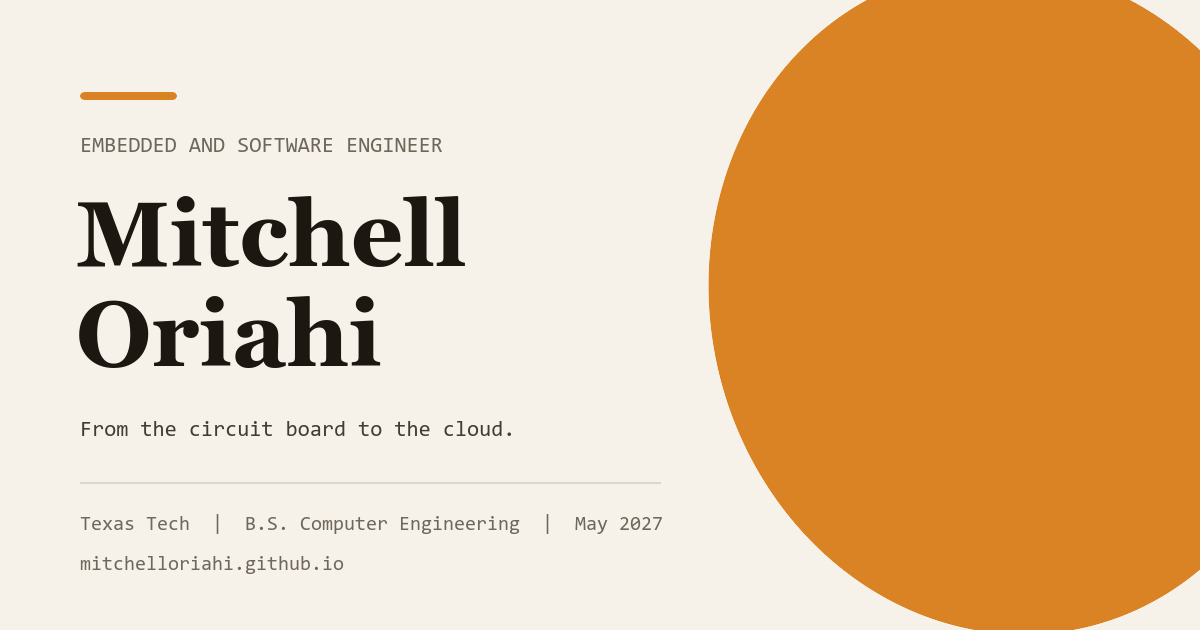
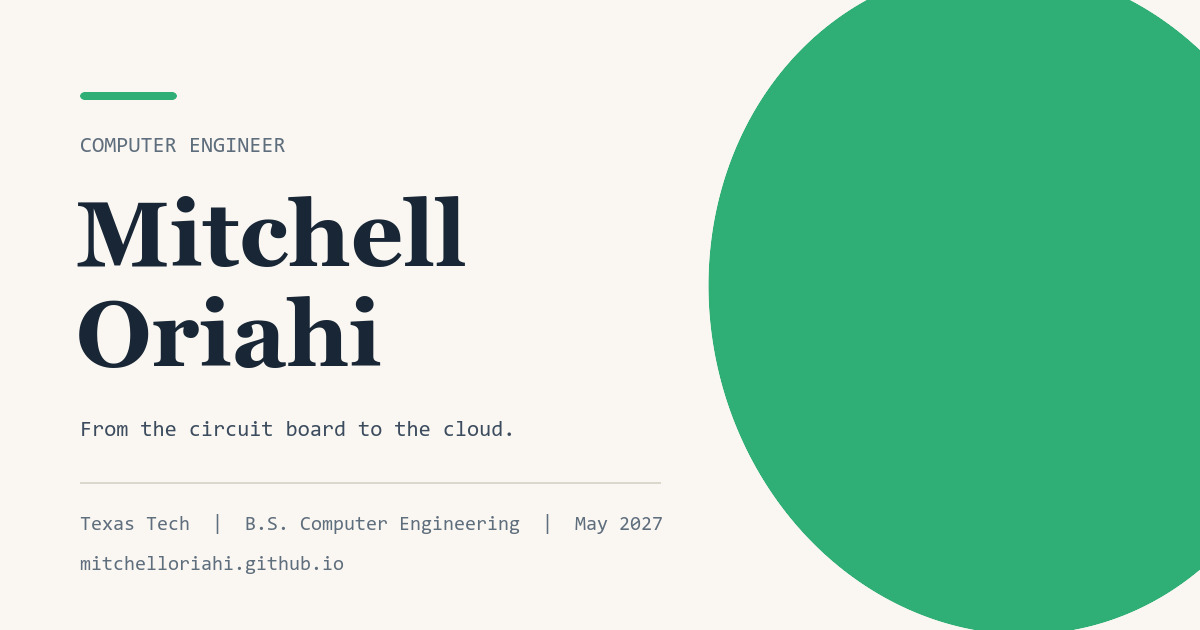
Repaint to navy and emerald, title to Computer Engineer, recruiter research pass
Palette: warm white paper, deep navy ink, emerald accent. Chosen after the
official frontend-design skill flagged cream plus serif plus terracotta as a
look AI-generated sites cluster around; Mitchell asked to move off marigold
without going Texas Tech red. Every color pair re-solved to WCAG AA. The
second featured card accent shifts from rust to steel blue; TTU scarlet
survives only on the education card. Favicon and social card regenerated.

Title: site-wide role label is now Computer Engineer per Mitchell's pick,
including the browser tab, OG card, and eyebrow.

Recruiter and ATS research applied:
- Tech ticker now shows real brand marks (devicon SVGs) beside C, Python,
  Azure DevOps, Git, Cosmos DB, MySQL, Linux, Java, MATLAB
- MATLAB restored to the toolkit and both MathWorks certifications restored
  to the education card: true keywords AI sourcing tools index
- JSON-LD enriched with hasCredential entries and a wider knowsAbout list

Beyond the bench copy rewritten as plain human sentences, no engineering
metaphors.

Also installs 20 design and workflow skills globally to ~/.claude/skills
(frontend-design, web-design-guidelines, ui-ux-pro-max, superpowers set, and
more), reviewed for safety before install; those live outside this repo.

diff --git a/src/styles/global.css b/src/styles/global.css
@@ -3,30 +3,31 @@
 /* ============================================================================
    DESIGN SYSTEM
    ----------------------------------------------------------------------------
-   Warm editorial. Bone paper, deep ink, one marigold accent.
+   Warm editorial, navy ink. Warm white paper, deep navy text, emerald accent.
    Tailwind v4 reads @theme and generates utilities from it, so these tokens are
    available both as CSS variables and as classes like text-ink or bg-bone.
    ========================================================================== */
 
 @theme {
     /* -- colour ----------------------------------------------------------- */
-    --color-bone: #f6f2ea;
-    --color-bone-deep: #ece5d8;
-    --color-paper: #fffdf9;
+    --color-bone: #faf7f2;
+    --color-bone-deep: #f0ebe2;
+    --color-paper: #ffffff;
 
-    --color-ink: #1d1712;
-    --color-ink-soft: #423c33;
-    --color-ink-mute: #6f675b;
-    --color-ink-faint: #726b62;
+    --color-ink: #182635;
+    --color-ink-soft: #3c4c5e;
+    --color-ink-mute: #5f6e7d;
+    --color-ink-faint: #61707f;
 
-    --color-rule: #ddd5c6;
-    --color-rule-soft: #e8e1d4;
+    --color-rule: #dcd7cd;
+    --color-rule-soft: #eae6dd;
 
-    --color-marigold: #d98324;
-    --color-marigold-deep: #965c12;
-    --color-marigold-wash: #f9ecd4;
+    --color-accent: #2fae76;
+    --color-accent-deep: #157a52;
+    --color-accent-wash: #e3f2ea;
 
-    --color-clay: #b4522f;
+    /* legacy name; now the steel blue used by the second featured card */
+    --color-clay: #41729f;
     --color-moss: #4f6b4a;
 
     /* Texas Tech scarlet, used as an accent only (borders, washes, marks),
@@ -102,7 +103,7 @@
     }
 
     ::selection {
-        background: var(--color-marigold);
+        background: var(--color-accent);
         color: var(--color-ink);
     }
 
@@ -155,7 +156,7 @@
         width: 0.42rem;
         height: 0.42rem;
         border-radius: 50%;
-        background: var(--color-marigold);
+        background: var(--color-accent);
         flex: none;
     }
 
@@ -208,7 +209,7 @@
     /* Italic serif for the accented words inside display headings. */
     .accent-word {
         font-style: italic;
-        color: var(--color-marigold-deep);
+        color: var(--color-accent-deep);
     }
 
     /* -- buttons ---------------------------------------------------------- */
@@ -236,14 +237,14 @@
         color: var(--color-bone);
         border: 1px solid var(--color-ink);
     }
-    .btn-solid:hover { background: var(--color-marigold-deep); border-color: var(--color-marigold-deep); }
+    .btn-solid:hover { background: var(--color-accent-deep); border-color: var(--color-accent-deep); }
 
-    .btn-amber {
-        background: var(--color-marigold);
+    .btn-accent {
+        background: var(--color-accent);
         color: var(--color-ink);
-        border: 1px solid var(--color-marigold);
+        border: 1px solid var(--color-accent);
     }
-    .btn-amber:hover { background: var(--color-ink); color: var(--color-bone); border-color: var(--color-ink); }
+    .btn-accent:hover { background: var(--color-ink); color: var(--color-bone); border-color: var(--color-ink); }
 
     .btn-ghost {
         background: transparent;
@@ -270,10 +271,10 @@
     .btn-solid .btn-badge { background: var(--color-bone); }
     .btn-solid .btn-badge svg { color: var(--color-ink); }
 
-    .btn-amber .btn-badge { background: var(--color-ink); }
-    .btn-amber .btn-badge svg { color: var(--color-bone); }
-    .btn-amber:hover .btn-badge { background: var(--color-marigold); }
-    .btn-amber:hover .btn-badge svg { color: var(--color-ink); }
+    .btn-accent .btn-badge { background: var(--color-ink); }
+    .btn-accent .btn-badge svg { color: var(--color-bone); }
+    .btn-accent:hover .btn-badge { background: var(--color-accent); }
+    .btn-accent:hover .btn-badge svg { color: var(--color-ink); }
 
     .btn-ghost .btn-badge { background: var(--color-ink); }
     .btn-ghost .btn-badge svg { color: var(--color-bone); }
@@ -329,7 +330,7 @@
 
     /* -- organic blob behind the portrait --------------------------------- */
     .blob {
-        background: var(--color-marigold);
+        background: var(--color-accent);
         border-radius: 48% 52% 42% 58% / 55% 45% 55% 45%;
     }
 
@@ -383,7 +384,7 @@
         bottom: 0.15rem;
         height: 1.5px;
         border-radius: 2px;
-        background: var(--color-marigold);
+        background: var(--color-accent);
         transform: scaleX(0);
         transform-origin: left center;
         transition: transform 0.5s var(--ease-out-expo);
@@ -424,11 +425,11 @@
     /* Produced by src/lib/highlight.ts from **marked** content strings. */
     .hl {
         font-weight: 650;
-        color: var(--color-marigold-deep);
+        color: var(--color-accent-deep);
     }
 
     .band-ink .hl {
-        color: var(--color-marigold);
+        color: var(--color-accent);
         font-weight: 600;
     }
 
@@ -599,7 +600,7 @@
         cursor: pointer;
         transition: background-color 0.3s var(--ease-out-expo);
     }
-    .lightbox .lb-nav:hover { background: var(--color-marigold); color: var(--color-ink); }
+    .lightbox .lb-nav:hover { background: var(--color-accent); color: var(--color-ink); }
     .lightbox .lb-prev { left: 0.25rem; }
     .lightbox .lb-next { right: 0.25rem; }
     .lightbox .lb-nav[hidden] { display: none; }
@@ -620,7 +621,7 @@
         height: 2px;
         border-radius: 2px;
         margin: 0 auto 1.5rem;
-        background: var(--color-marigold);
+        background: var(--color-accent);
     }
 
     .scripture blockquote {
@@ -664,7 +665,7 @@
         border: 1px solid var(--color-rule-soft);
         border-radius: 6px;
         background: var(--color-paper);
-        box-shadow: 0 10px 24px -12px rgba(29, 23, 18, 0.35);
+        box-shadow: 0 10px 24px -12px rgba(24, 38, 53, 0.35);
         cursor: zoom-in;
         transition: transform 0.5s var(--ease-out-expo),
                     box-shadow 0.5s var(--ease-out-expo);
@@ -687,7 +688,7 @@
 
     .snap-print:hover {
         z-index: 3;
-        box-shadow: 0 18px 36px -14px rgba(29, 23, 18, 0.45);
+        box-shadow: 0 18px 36px -14px rgba(24, 38, 53, 0.45);
     }
 
     .snap-print:focus-visible {

diff --git a/src/data/site.ts b/src/data/site.ts
@@ -57,7 +57,7 @@ export interface FeaturedProject {
     gallery: ImageRef[];
     /** Shown inline at natural aspect, never cropped. */
     video?: VideoRef;
-    accent: 'marigold' | 'clay' | 'moss';
+    accent: 'accent' | 'clay' | 'moss';
 }
 
 export interface CompactProject {
@@ -93,8 +93,8 @@ export interface Role {
 export const SITE = {
     name: 'Mitchell Oriahi',
     shortName: 'Mitchell',
-    title: 'Mitchell Oriahi, Embedded and Software Engineer',
-    role: 'Embedded and Software Engineer',
+    title: 'Mitchell Oriahi, Computer Engineer',
+    role: 'Computer Engineer',
     description:
         'Mitchell Oriahi builds from the circuit board to the cloud: microcontrollers, custom hardware, and the software and pipelines around them. Computer Engineering at Texas Tech, graduating May 2027.',
     origin: 'https://mitchelloriahi.github.io',
@@ -135,7 +135,7 @@ const LOGO_TTU: ImageRef = {
    ------------------------------------------------------------------------ */
 export const HERO = {
     greeting: "Hi, I'm Mitchell.",
-    // `accent` renders in italic marigold inside the display heading.
+    // `accent` renders in italic accent inside the display heading.
     headlineBefore: 'From the circuit board ',
     headlineAccent: 'to the cloud',
     headlineAfter: '.',
@@ -200,12 +200,40 @@ export const PROOF: ProofCard[] = [
     },
 ];
 
-/** Scrolling technology ticker under the proof squares. */
-export const TICKER = [
-    'Microcontrollers', 'FreeRTOS', 'C', 'Python', 'Azure DevOps', 'CI/CD',
-    'PCB design', 'TouchGFX', 'Verilog', 'Cosmos DB', 'MySQL', 'Linux',
-    'Oscilloscope', 'AutoCAD', 'LTspice', 'Java', 'SPI', 'I2C', 'UART', 'DMA',
-] as const;
+/**
+ * Scrolling technology ticker under the proof squares.
+ * `icon` names an SVG in /public/img/tech (from devicon); plain concepts and
+ * tools without a recognizable mark stay text only.
+ */
+export interface TickerItem {
+    label: string;
+    icon?: string;
+}
+
+export const TICKER: TickerItem[] = [
+    { label: 'Microcontrollers' },
+    { label: 'C', icon: 'c' },
+    { label: 'Python', icon: 'python' },
+    { label: 'FreeRTOS' },
+    { label: 'Azure DevOps', icon: 'azuredevops' },
+    { label: 'Git', icon: 'git' },
+    { label: 'CI/CD' },
+    { label: 'PCB design' },
+    { label: 'Cosmos DB', icon: 'azure' },
+    { label: 'MySQL', icon: 'mysql' },
+    { label: 'Linux', icon: 'linux' },
+    { label: 'Java', icon: 'java' },
+    { label: 'MATLAB', icon: 'matlab' },
+    { label: 'TouchGFX' },
+    { label: 'Verilog' },
+    { label: 'Oscilloscope' },
+    { label: 'AutoCAD' },
+    { label: 'LTspice' },
+    { label: 'SPI' },
+    { label: 'I2C' },
+    { label: 'UART' },
+    { label: 'DMA' },
+];
 
 /* ---------------------------------------------------------------------------
    EXPERIENCE
@@ -268,7 +296,7 @@ export const FEATURED: FeaturedProject[] = [
         role: 'Team Lead',
         org: 'TTU ECE 3334',
         period: 'Jan 2026 to May 2026',
-        accent: 'marigold',
+        accent: 'accent',
         summary: `A GPS tracker that packetizes its own position and puts it on the
                   air over VHF and UHF radio, built on an STM32 NUCLEO board.`,
         detail: [
@@ -472,7 +500,7 @@ export const TOOLKIT = [
     },
     {
         name: 'Tools and lab',
-        items: ['Git', 'Azure DevOps', 'CI/CD', 'MySQL', 'Cosmos DB', 'REST APIs', 'Linux', 'Oscilloscope', 'LTspice', 'AutoCAD'],
+        items: ['Git', 'Azure DevOps', 'CI/CD', 'MySQL', 'Cosmos DB', 'REST APIs', 'Linux', 'MATLAB', 'Oscilloscope', 'LTspice', 'AutoCAD'],
     },
 ] as const;
 
@@ -488,6 +516,10 @@ export const EDUCATION = {
     gpa: '3.46',
     graduation: 'May 2027',
     honors: ["President's Honor List", "Dean's Honor List"],
+    certs: [
+        { name: 'MATLAB Onramp', org: 'MathWorks', year: '2025' },
+        { name: 'Machine Learning Onramp', org: 'MathWorks', year: '2025' },
+    ],
     coursework: [
         'Embedded Systems',
         'Microcontrollers with Assembly',
@@ -547,7 +579,7 @@ export interface Pastime {
 export const BEYOND: Pastime[] = [
     {
         title: 'Training',
-        body: 'The gym is a fixed part of my week, and I train Muay Thai and jiu jitsu. It is the fastest way I know to stay sharp.',
+        body: 'The gym is a regular part of my week, and I train Muay Thai and jiu jitsu. It keeps me disciplined and around good people.',
         images: [
             { slug: 'beyond-gym', widths: [400, 800], w: 800, h: 1399, alt: 'Training at the gym' },
             { slug: 'beyond-mma', widths: [400, 800, 1400], w: 1400, h: 1050, alt: 'With the Muay Thai and jiu jitsu team' },
@@ -555,7 +587,7 @@ export const BEYOND: Pastime[] = [
     },
     {
         title: 'Cooking',
-        body: 'I cook most days. It scratches the same itch as engineering: read the system, adjust one variable, taste the result.',
+        body: "I cook most days and I'm always trying a new recipe. Cooking for people you care about never gets old.",
         images: [
             { slug: 'beyond-cooking-a', widths: [400, 800, 1400], w: 1400, h: 1867, alt: 'Cooking at home' },
             { slug: 'beyond-cooking-b', widths: [400, 800, 1400], w: 1400, h: 1867, alt: 'A finished dish' },
@@ -563,7 +595,7 @@ export const BEYOND: Pastime[] = [
     },
     {
         title: 'Trails',
-        body: 'Good trails and long views. Getting away from a screen is how I reset between builds.',
+        body: 'Good trails and long views. A few hours outside clears my head better than anything else.',
         images: [
             { slug: 'beyond-hiking-a', widths: [400, 800, 1400], w: 1400, h: 1050, alt: 'Hiking a ridgeline' },
             { slug: 'beyond-hiking-b', widths: [400, 800, 1400], w: 1400, h: 1867, alt: 'Resting on a hike' },
